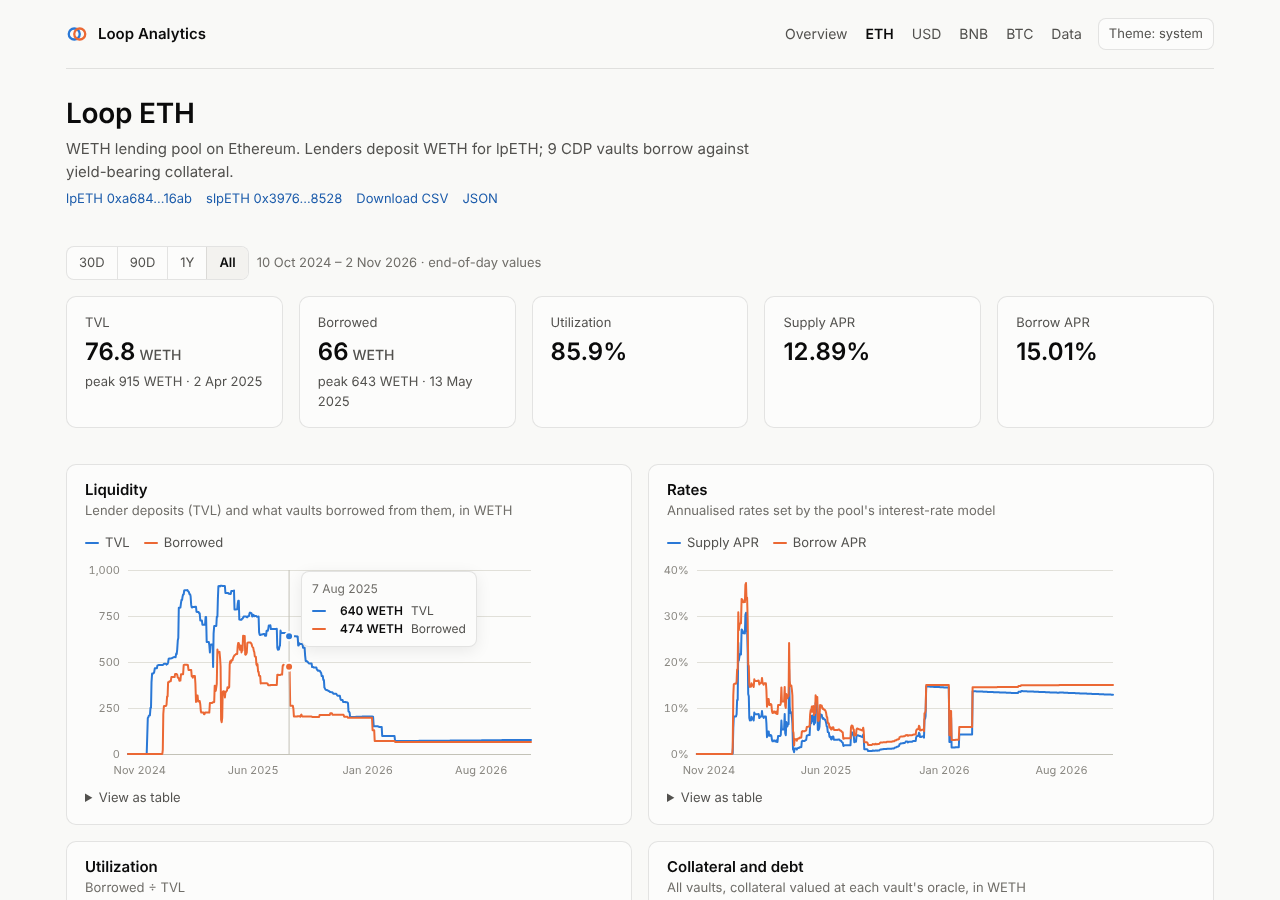
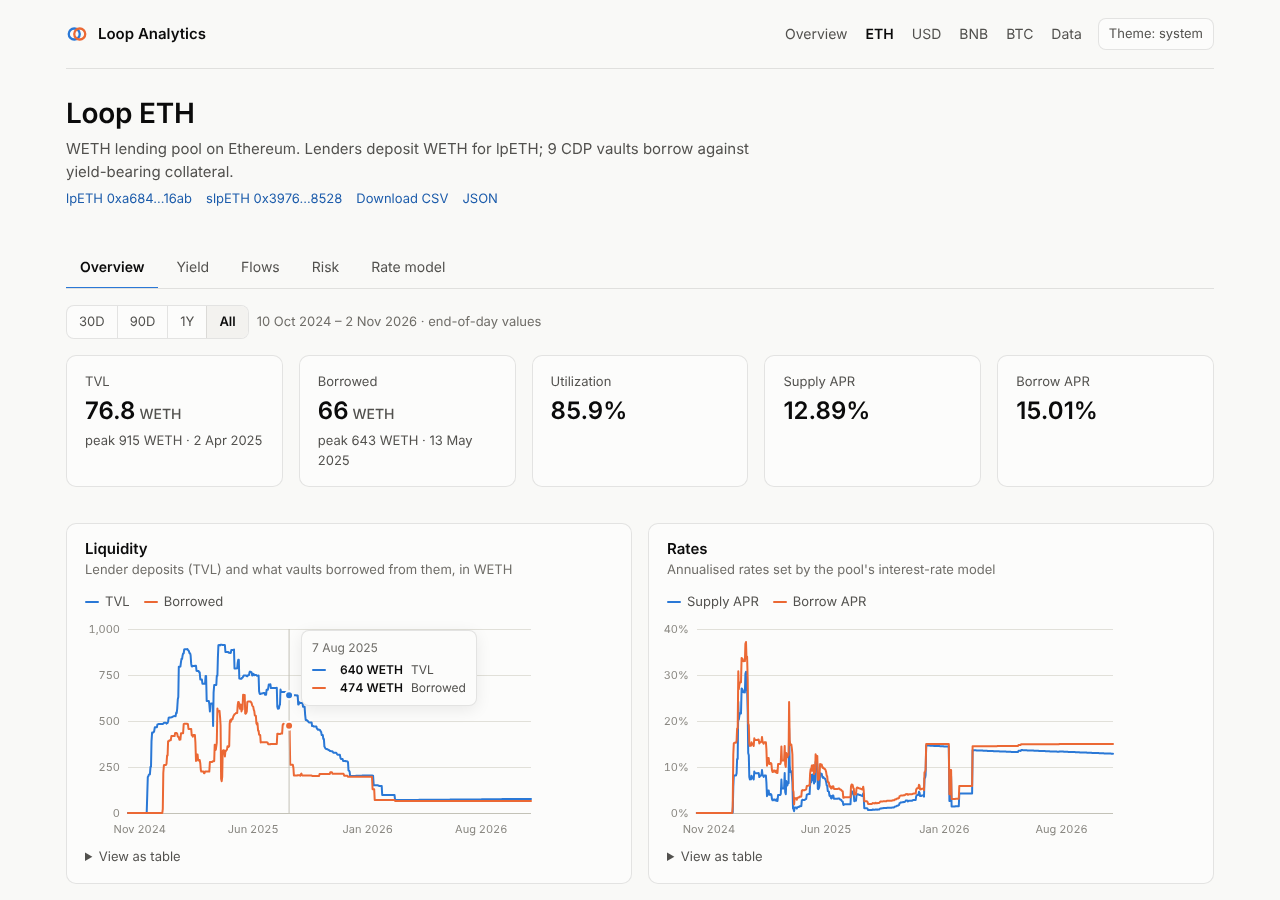
Document the analytics layer and add matching Dune queries
- Dune: flows (interest vs net deposits), realized yield, vault
  liquidation proximity and debt concentration queries, mirroring the
  new Postgres views.
- Data model: new views, liquidation series and derived-metric formulas.
- Architecture: new series back-fill themselves at stored blocks.
- README: analytics tabs, risk screenshot, and findings verified
  against the data (lender losses in 2025, the rate-model retune, the
  sdeUSD oracle collapse).

Claude-Session: https://claude.ai/code/session_014RbGtUbkCQnkQFEiCiFcLK

diff --git a/docs/data-model.md b/docs/data-model.md
@@ -23,17 +23,24 @@ the timestamp of the block actually read, which is at or just before `ts`.
 |---|---|---|
 | `observations_enriched` | (series, ts) | observations + catalogue context |
 | `market_hourly` | (market, hour) | `tvl`, `available_liquidity`, `total_borrowed`, `utilization`, `borrow_apr`, `supply_apr`, `lp_supply`, `lp_price`, `slp_supply`, `slp_price`, `staked_tvl`, `locked_tvl`, `collateral_value`, `vault_debt`, `active_vaults` |
-| `vault_hourly` | (vault, hour) | `collateral_balance`, `spot_price`, `collateral_value`, `total_debt`, `debt_ceiling`, `pool_borrowed`, `ltv` |
+| `vault_hourly` | (vault, hour) | `collateral_balance`, `spot_price`, `collateral_value`, `total_debt`, `debt_ceiling`, `pool_borrowed`, `ltv`, `liquidation_ratio`, `liquidation_penalty`, `max_ltv`, `capacity_used`, `drop_to_liquidation` |
 | `market_daily`, `vault_daily` | (…, day) | last hourly row of each UTC day |
+| `market_yield_daily` | (market, day) | `realized_apy_7d/30d/90d` (from lpX share price), `supply_apr`, `borrow_apr`, `utilization`, `pass_through` |
+| `market_flows_daily` | (market, day) | `tvl_change` = `interest` + `net_flow`, `borrow_change` |
+| `vault_share_daily` | (vault, day) | `debt_share`, `collateral_share` |
+| `market_concentration_daily` | (market, day) | `debt_hhi`, `top_vault_share`, `borrowing_vaults` |
+| `oracle_daily` | (vault, day) | `spot_price`, `prev_spot_price`, `spot_change` |
 | `series_latest` | series | latest value |
 | `chain_freshness` | chain | last snapshot, lag, failed calls |
+| `coverage_daily` | (chain, day) | snapshots, reverted calls, max block lag |
+| `series_health` | series | observations, reverted snapshots, last observed |
 
 Amounts in the views are in the market's **underlying token** (WETH, USDC, WBNB, BTCB).
 Rates and ratios are fractions (`0.0473` = 4.73%).
 
 ## Series
 
-114 series across 4 markets. Run `loop-indexer registry show --json` for the full list,
+146 series across 4 markets. Run `loop-indexer registry show --json` for the full list,
 or query `loop.series`.
 
 | Entity | Metric | Call | Scale |
@@ -52,6 +59,8 @@ or query `loop.series`.
 | vault | `collateral_balance` | `collateral.balanceOf(vault)` | collateral decimals |
 | vault | `debt_ceiling` | `pool.creditManagerDebtLimit(vault)` | underlying decimals |
 | vault | `pool_borrowed` | `pool.creditManagerBorrowed(vault)` | underlying decimals |
+| vault | `liquidation_ratio` | `vaultConfig()[1]` | WAD (1.1 = 110%) |
+| vault | `liquidation_penalty` | `liquidationConfig()[0]` | WAD (0.99 = 1% penalty) |
 
 ## Derived metrics
 
@@ -65,6 +74,12 @@ or query `loop.series`.
 | Locked TVL | `locked_shares × lp_price` |
 | Collateral value | `collateral_balance × spot_price` (in underlying, at the vault's own oracle) |
 | LTV | `total_debt / collateral_value` |
+| Capacity used | `LTV × liquidation_ratio`; ≥ 100% means the aggregate position is liquidatable |
+| Drop to liquidation | `1 − LTV × liquidation_ratio`: collateral price fall before liquidation |
+| Realized APY (n days) | `(lp_price_t / lp_price_{t−n})^(365/n) − 1`, net of any losses |
+| Pass-through | `supply_apr / (borrow_apr × utilization)`: borrower interest reaching lenders |
+| Interest / net deposits | `lp_supply_{t−1} × Δlp_price` / `Δlp_supply × lp_price_t`; they sum exactly to ΔTVL |
+| Debt HHI | `Σ debt_share²` across vaults; 100% = one vault holds all debt |
 
 ## Protocol quirks the model accounts for
 

diff --git a/README.md b/README.md
@@ -11,7 +11,7 @@ Postgres, published to Dune, and shown on a dashboard.
 | | |
 |---|---|
 | **Markets** | lpETH and lpUSD on Ethereum; lpBNB and lpBTC on BNB Chain |
-| **Coverage** | 4 pools, 4 staking vaults, 16 CDP vaults, 114 series, from each pool's deployment block |
+| **Coverage** | 4 pools, 4 staking vaults, 16 CDP vaults, 146 series, from each pool's deployment block |
 | **Resolution** | hourly (UTC), with daily rollups |
 | **Outputs** | Postgres views · public Dune tables · Next.js dashboard · JSON/CSV API |
 
@@ -42,6 +42,24 @@ Details: [architecture](docs/architecture.md) · [data model](docs/data-model.md
 [deployment](docs/deployment.md) · [Dune](dune/README.md).
 
 ![Market page](docs/img/market-eth.png)
+
+## Analytics
+
+Every market page has five tabs, all scoped by one date-range filter:
+
+| Tab | What it answers |
+|---|---|
+| **Overview** | TVL, borrows, utilization, rates, collateral vs debt, share price, staked/locked, vault table |
+| **Yield** | What lenders *actually* earned (realized APY from the share price, 7/30/90 days) vs the quoted APR; cumulative interest; how much borrower interest reached lenders |
+| **Flows** | Each day's TVL change split exactly into interest and net deposits; weekly deposits/withdrawals and borrows/repayments |
+| **Risk** | Interactive **stress test** (collateral price shock → vaults past their liquidation ratio, debt at risk, uncovered debt); liquidation-proximity heatmap; debt mix and concentration (HHI); oracle events |
+| **Rate model** | Utilization vs borrow APR for every day, with the empirical rate curve, and how often the pool ran hot |
+
+The definitions live once, in SQL views (`loop.market_yield_daily`,
+`loop.market_flows_daily`, …), and are mirrored by the [Dune queries](dune/queries/).
+A data-health panel shows coverage per chain and every reverting series.
+
+![Risk tab with the stress test](docs/img/market-eth-risk.png)
 
 ## Quick start
 
@@ -84,6 +102,14 @@ The indexer surfaced things the protocol's own accounting hid:
   $150k of collateral. Debt peaked at 124k USDC. 4,000 USDC is still outstanding.
 * **10 of 16 vaults were never tracked** by the previous pipeline, including vaults with
   debt. Its BNB pool metrics read an Ethereum address and were always zero.
+* **Lenders took losses.** The lpETH share price peaked at 1.0155 (5 Feb 2025) and fell
+  to 1.0012 by mid-2025, a ~1.4% loss of deposit value. lpUSD shows similar write-downs
+  (largest single day −4,195 USDC, 26 Sep 2025).
+* **The rate model was retuned.** At 75–85% utilization, lpETH charged ~21% APR before
+  June 2025 and ~7% after, visible as two separate curves on the Rate model tab (only 5
+  days fall in that band after June).
+* **An oracle collapsed.** sdeUSD's price fell 90% in one day (7 Nov 2025) and its oracle
+  has reverted ever since; 2,236 USDC of debt sits in a vault that can no longer be valued.
 * **TVL is 92–99% below its peak.** lpETH went from 915 to 77 WETH, lpUSD from 594k to
   12.9k USDC, and lpBNB from 1,588 to 10 WBNB (2 Nov 2026). lpBTC shows no deposits in
   any daily sample. What remains on lpETH is still 86% borrowed.

diff --git a/dune/README.md b/dune/README.md
@@ -28,6 +28,10 @@ Delivery is at-least-once. Always de-duplicate on `(series_id, ts)` keeping the 
 | [`02_vault_hourly.sql`](queries/02_vault_hourly.sql) | collateral, oracle price, debt and LTV per vault and hour |
 | [`03_tvl_daily.sql`](queries/03_tvl_daily.sql) | chart-ready end-of-day TVL / borrows / utilization |
 | [`04_market_overview.sql`](queries/04_market_overview.sql) | counters: latest state, all-time peak, drawdown |
+| [`05_flows_daily.sql`](queries/05_flows_daily.sql) | TVL change split into interest and net deposits |
+| [`06_realized_yield.sql`](queries/06_realized_yield.sql) | realized lender APY from share price vs quoted APR |
+| [`07_vault_risk.sql`](queries/07_vault_risk.sql) | capacity used and price drop to liquidation per vault |
+| [`08_debt_concentration.sql`](queries/08_debt_concentration.sql) | debt HHI and top-vault share per market |
 
 Each query takes a text parameter `{{namespace}}` (your `DUNE_NAMESPACE`). The
 definitions match the Postgres views in `supabase/migrations/`, so Dune and the hosted

diff --git a/indexer/README.md b/indexer/README.md
@@ -11,9 +11,9 @@ uv run loop-indexer --help
 | Command | What it does |
 |---|---|
 | `db migrate` | apply `supabase/migrations/*.sql` (idempotent) |
-| `registry show [--json]` | list the 114 series and how each is read |
+| `registry show [--json]` | list the 146 series and how each is read |
 | `registry verify [--chain …]` | re-check every registry fact against an archive node |
-| `run [--interval 1h] [--from …] [--to …] [--force] [--chain …]` | snapshot every missing grid point since deployment |
+| `run [--interval 1h] [--from …] [--to …] [--force] [--chain …]` | snapshot every missing grid point since deployment, and back-fill newly registered series at stored blocks |
 | `export dune [--full]` | append new observations to Dune; refresh catalogue tables |
 | `export static --out DIR` | end-of-day JSON for the dashboard's no-database mode |
 | `health [--max-lag 3h]` | exit 1 if any chain is stale |

diff --git a/docs/deployment.md b/docs/deployment.md
@@ -104,6 +104,6 @@ standalone image too: `docker build -t loop-dashboard dashboard/`.
 | Which calls fail? | `select ts, failed_series from loop.snapshots where failed_count > 0 order by ts desc` |
 | Backfill a window | `loop-indexer run --from 2025-01-01 --to 2025-02-01` |
 | Re-read a window (e.g. after a registry fix) | `loop-indexer run --from … --to … --force` |
-| A new vault appeared | add it to `markets.yaml`, run `registry verify`, then `run --force` from its deployment date |
+| A new vault or metric | add it to `markets.yaml` (or the series templates), run `registry verify`; the next `run` back-fills its history at the stored snapshot blocks |
 | Rebuild the Dune table | `loop-indexer export dune --full` |
 | Rotate an RPC key | update the `*_RPC_URLS` secret; several URLs give failover |

diff --git a/docs/architecture.md b/docs/architecture.md
@@ -89,6 +89,12 @@ successful run. All writes are upserts. A re-sample that reads identical values 
 `ingested_at` unchanged, so nothing is re-exported. A run that could not fill every
 point exits non-zero, which fails the workflow and notifies you.
 
+Adding a metric or a vault backfills itself. Each series records when it was
+registered (`series.created_at`). Snapshots taken before that are re-read **at their
+stored block**: one multicall each, with no timestamp-to-block resolution. Adding the
+two liquidation-parameter series back-filled 1,325 daily snapshots on both chains in
+under two minutes.
+
 ### 7. At-least-once delivery to Dune
 
 The Dune exporter pages through observations in `(ingested_at, series_id, ts)` order

diff --git a/dashboard/README.md b/dashboard/README.md
@@ -18,7 +18,7 @@ npm run dev        # http://localhost:3000
   crosshair tooltip that lists every series, keyboard navigation, a "view as table"
   fallback, and a validated categorical palette in light and dark themes.
 
-![Loop USD market, dark theme](../docs/img/market-usd-dark.png)
+![Rate model tab, dark theme](../docs/img/market-eth-rates-dark.png)
 
 Deploy on Vercel with Root Directory `dashboard/` (see `../docs/deployment.md`), or
 self-host with the `Dockerfile` (standalone Next.js server).

diff --git a/docs/legacy-review.md b/docs/legacy-review.md
@@ -51,4 +51,4 @@ on-chain) and three ABIs were kept.
 See [architecture.md](architecture.md). In short: a typed, chain-verified registry;
 an hourly UTC grid; Multicall3 snapshots; Postgres as the source of truth; idempotent,
 self-healing runs; at-least-once Dune export via the current Uploads API; a dashboard;
-and 51 indexer tests (91% coverage) running against an in-memory EVM and a real Postgres.
+and 54 indexer tests (91% coverage) running against an in-memory EVM and a real Postgres.
